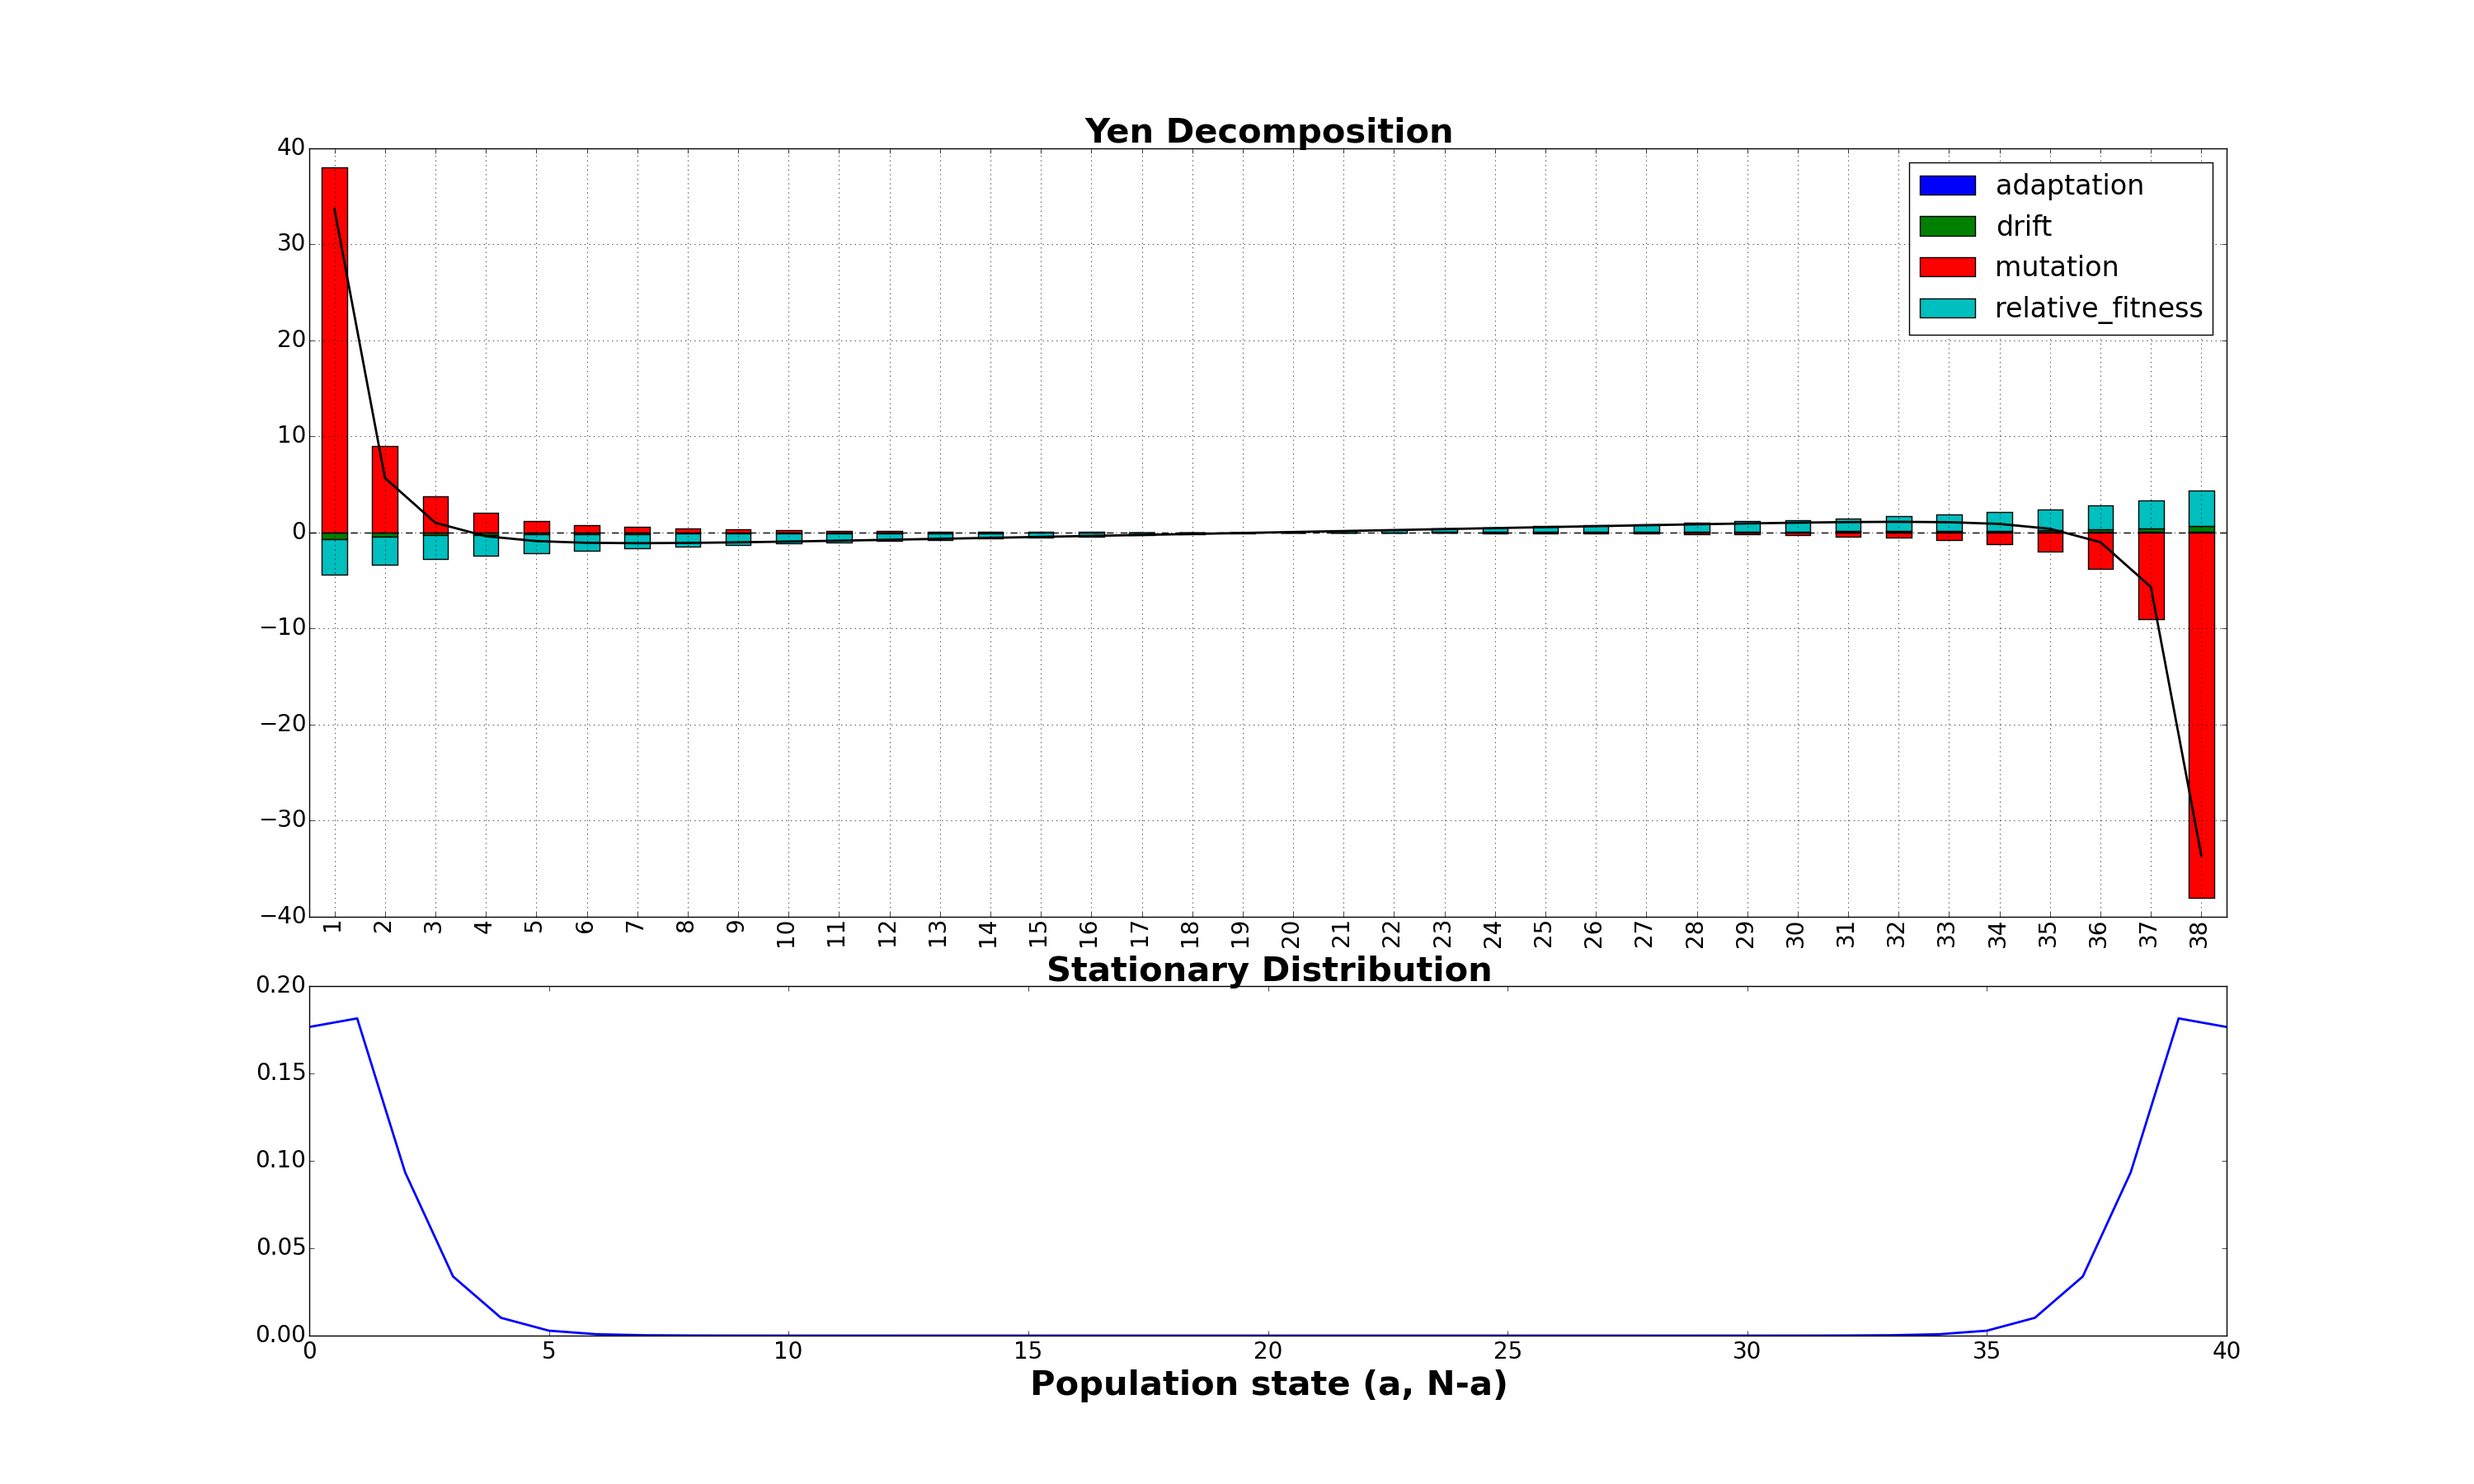
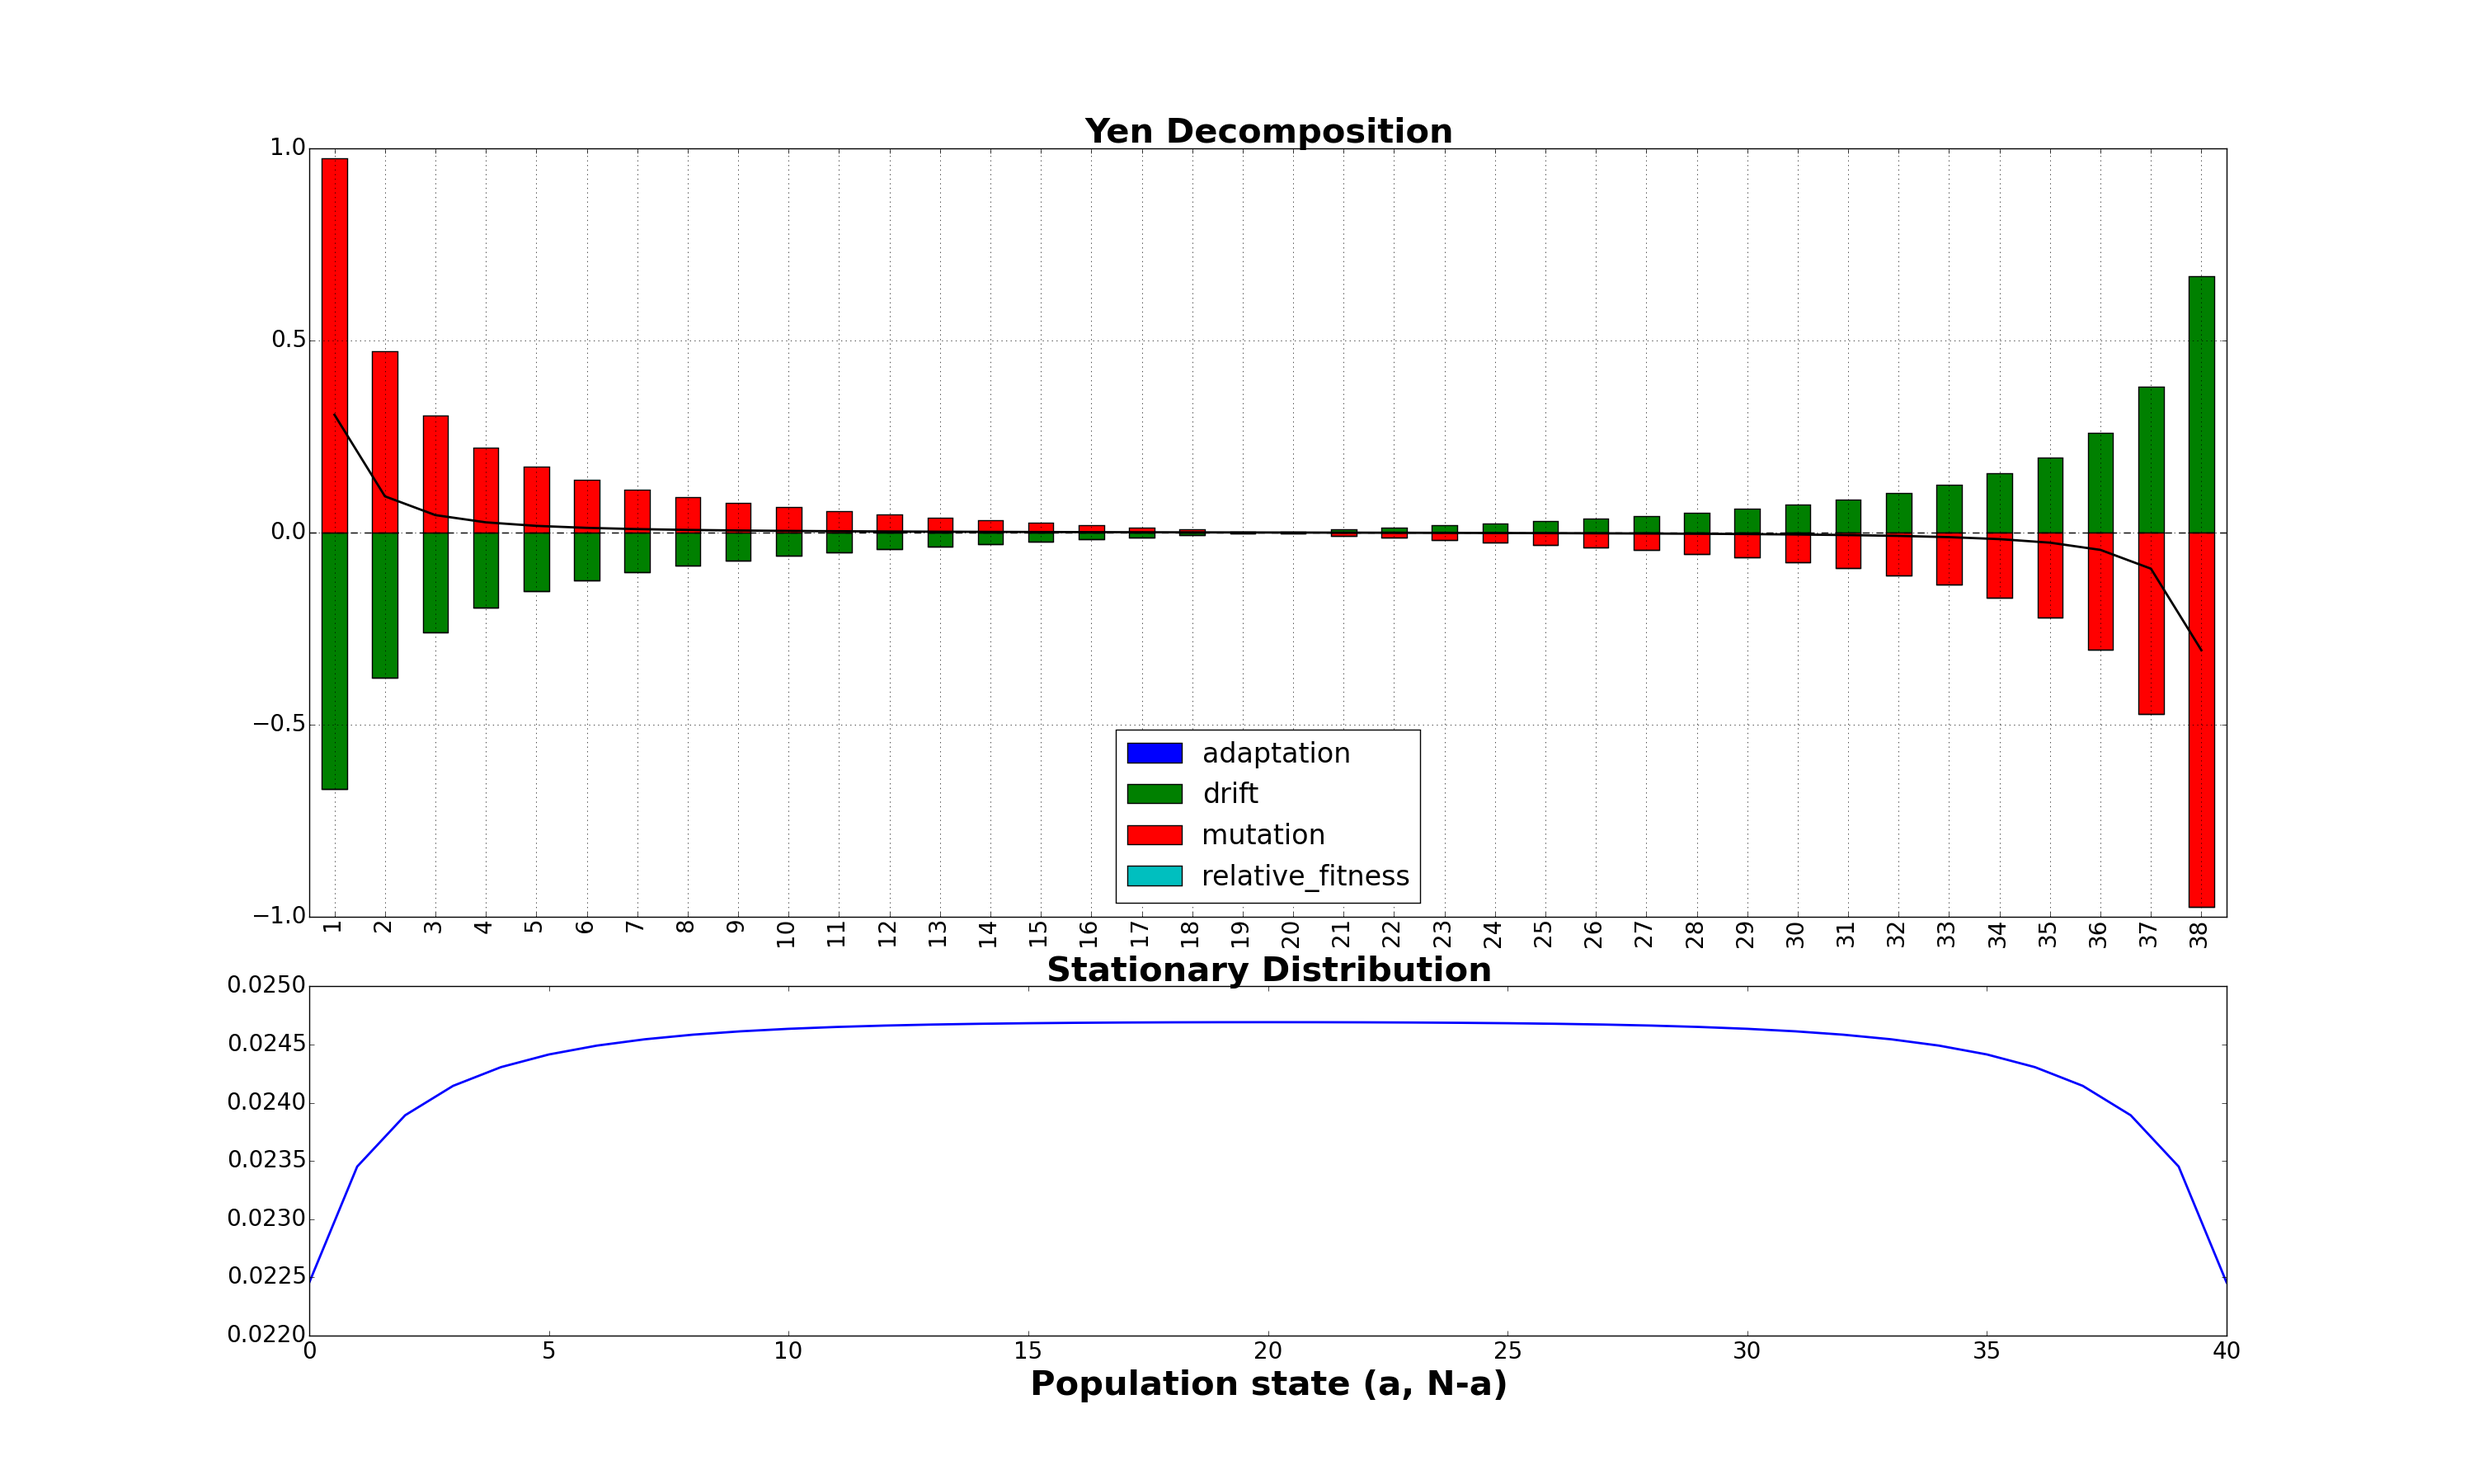
Update figures with correct neutral landscape

diff --git a/make_figures.py b/make_figures.py
@@ -32,7 +32,7 @@ def ensure_digits(num, s):
 def two_type_matrices():
     matrices = [
         [[1, 1], [0, 1]], # tournament
-        [[1, 0], [0, 1]], # neutral
+        [[1, 1], [1, 1]], # neutral
         [[2, 2], [1, 1]], # classic Moran
         [[1, 2], [2, 1]], # hawk-dove
         [[1, 3], [2, 1]], # asymmetric hawk-dove
@@ -107,9 +107,9 @@ def max_decomp_test(N=30, mu=None, beta=0.1, directory="three_type_max_decomp"):
 
 if __name__ == "__main__":
     print "Generating figures -- this will take some time."
-    #decomposition_bar_charts(N=40)
-    #heatmaps_bomze(N=60)
-    #max_decomp_plots(N=60)
+    decomposition_bar_charts(N=40)
+    heatmaps_bomze(N=60)
+    max_decomp_plots(N=60)
 
 
     N = 60
